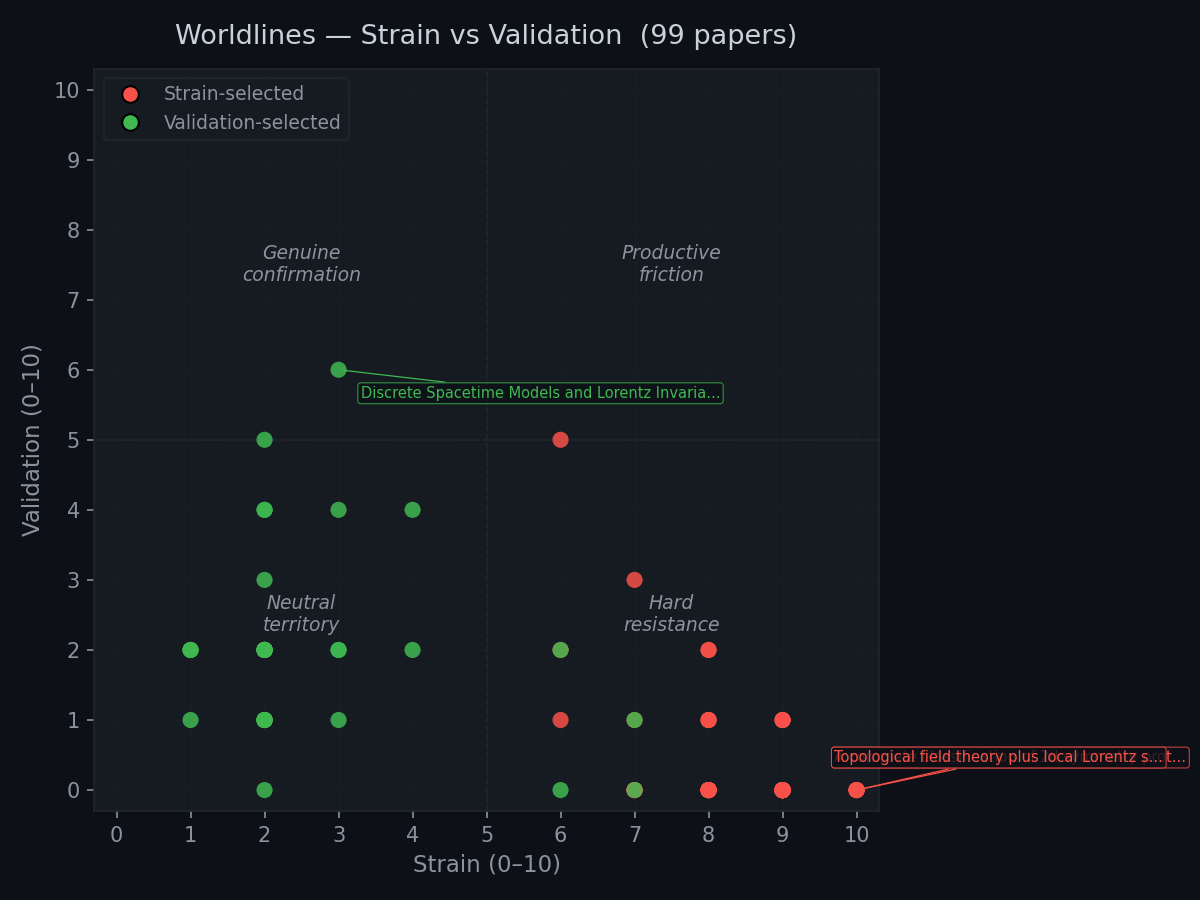
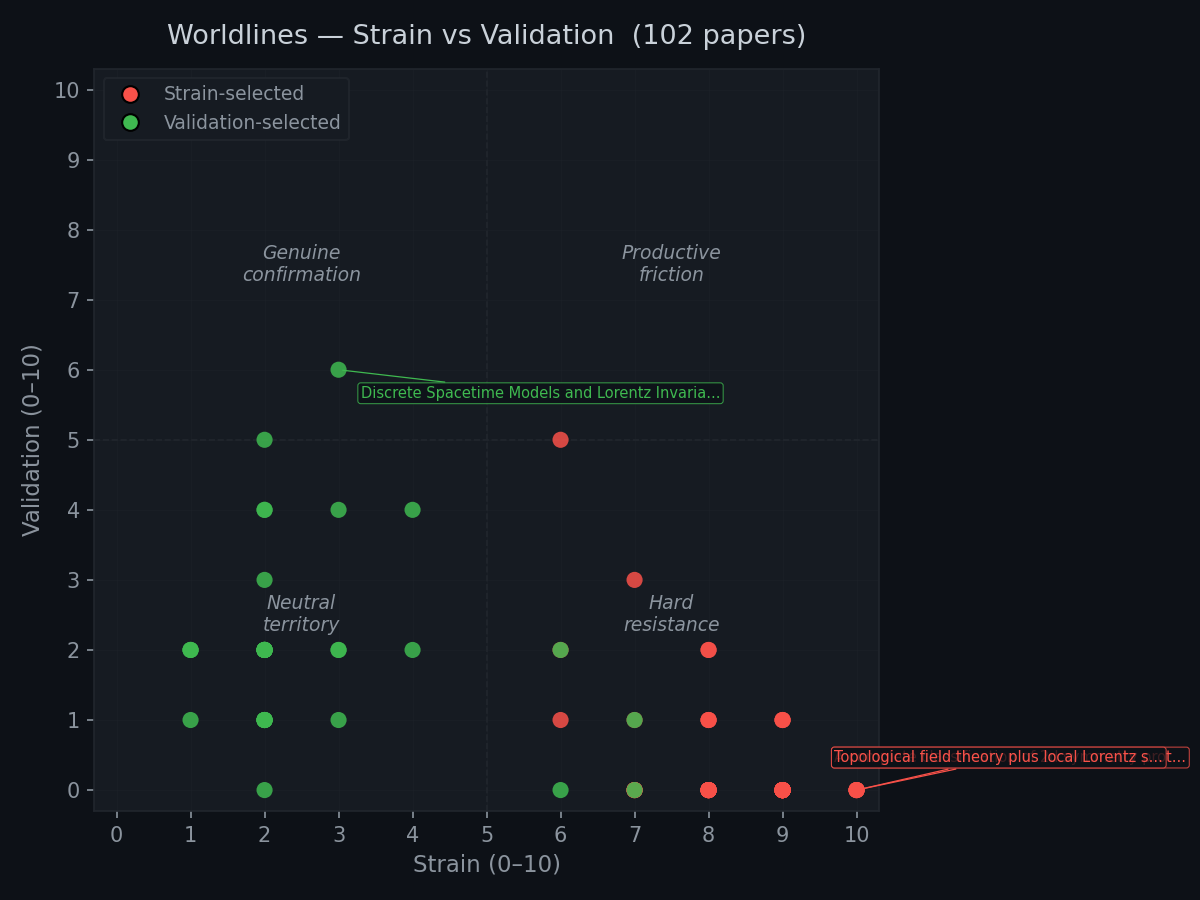
cycle: 2026-04-01T06:40:04Z

Changed region(s): [[0.1233, 0.0311, 0.6783, 0.0622]]

diff --git a/cycles/2026-04-01.md b/cycles/2026-04-01.md
@@ -1,0 +1,82 @@
+# Cycle: 2026-04-01
+
+**Papers fetched:** 17
+**Papers selected:** 3
+**Selected papers:**
+- [STRAIN] The scalar--Maxwell--$Λ(x)$ system: Wormhole spacetimes without nonlinear electrodynamics in unimodular gravity (`2603.30003v1`)
+- [STRAIN] The Grothendieck Constant is Strictly Larger than Davie-Reeds' Bound (`2603.30039v1`)
+- [VALIDATION] Thermalization in high-dimensional systems: the (weak) role of chaos (`2603.29614v1`)
+
+**Selection rationale:** Paper 1 (wormholes in unimodular gravity with relaxed energy-momentum conservation) directly challenges the framework's Conservation of Computation primitive, since UG allows semi-classical energy exchange between matter and vacuum that breaks standard conservation — this creates genuine tension with the claim that all conservation laws are special cases of computational conservation. Paper 9 (Grothendieck constant bound) is pure functional analysis with connections to quantum information and optimization geometry, resisting any natural mapping onto gradient fields, attractors, or discrete ticks. Paper 17 (thermalization without chaos/ergodicity in high-dimensional systems) provides genuine validation: the finding that statistical mechanical predictions hold even without rigorous ergodicity aligns precisely with the framework's view that resolution and computational structure drive thermalization — the accumulation of resolved states creates the arrow of time and thermal equilibrium regardless of whether the underlying dynamics are technically chaotic, highlighting something other frameworks struggle to explain.
+
+
+**Scores:**
+
+| Paper | Strain | Validation | Selection |
+|-------|--------|------------|----------|
+| The scalar--Maxwell--Λ(x) system: Wormhole spaceti... | 9/10 | 0/10 | strain |
+| The Grothendieck Constant is Strictly Larger than ... | 8/10 | 0/10 | strain |
+| Thermalization in high-dimensional systems: the (w... | 2/10 | 2/10 | validation |
+
+---
+
+### PAPERS PROCESSED
+
+**Paper 1: "The scalar--Maxwell--Λ(x) system: Wormhole spacetimes without nonlinear electrodynamics in unimodular gravity"**
+ArXiv ID: 2603.30003v1 | Selection type: Strain
+
+Through the Worldlines lens, this paper attacks the framework at multiple joints simultaneously. The framework treats Conservation of Computation as a primitive — "computation cannot be created or destroyed, only transformed." Unimodular Gravity (UG) *relaxes energy-momentum conservation* by construction: the divergence-free condition on the stress-energy tensor is not imposed, and instead a dynamical cosmological term Λ(x) absorbs the discrepancy, enabling "semi-classical energy exchange between matter and the vacuum." The framework identifies energy conservation as a special case of Conservation of Computation; here, that special case is explicitly violated locally, with the violation absorbed into a spatially varying cosmological function. The framework claims dark energy (Λ) is an architectural parameter — "the computational cost of instantiating new substrate." But Λ(x) is a dynamical field that varies point-to-point, determined by the matter content and geometry, not an architectural constant at all. Furthermore, the paper constructs traversable wormholes — non-trivial spacetime topologies connecting causally disconnected regions — using only a phantom scalar field and standard linear Maxwell electrodynamics on an intact substrate. The phantom field (negative kinetic energy) is precisely the type of anti-gradient structure that T061 flagged: it violates the dominant energy condition, and yet it supports stable spacetime configurations (wormholes) rather than dispersing. The wormhole topology itself challenges the Tick primitive: traversable wormholes allow causal connections between regions that the tick-rate propagation structure says should be disconnected, effectively creating shortcuts that violate the "maximum propagation rate" interpretation of the speed of light. The framework's Field primitive predicts phantom fields should disperse (T061); here they are the structural support for stable non-trivial topology. The framework's Conservation primitive is violated locally by construction. The framework's substrate/Λ claim is contradicted by Λ(x) being dynamical. The framework strains at Conservation, Field, Tick, and Substrate claims simultaneously.
+
+**Paper 2: "The Grothendieck Constant is Strictly Larger than Davie-Reeds' Bound"**
+ArXiv ID: 2603.30039v1 | Selection type: Strain
+
+The Grothendieck constant K_G is a fundamental mathematical constant governing the maximum gap between the relaxation of a bilinear optimization problem over unit vectors to an optimization over the unit ball — it quantifies the maximum advantage of continuous (quantum/wave-like) strategies over discrete (classical/sign) strategies for bilinear forms. Through the Worldlines lens, this paper strains the framework by demonstrating that a universal constant governing the relationship between "resolved" computation (sign assignments, classical optimization) and "unresolved" computation (unit-vector strategies, quantum optimization) has its value determined by the fine structure of functional analysis — specifically, by the Hermite coefficient spectrum of near-extremal operators and the effect of cubic perturbations on the integrality gap. The framework's Resolution primitive describes the transition from unresolved to resolved states but has no account of the *quantitative gap* between what unresolved (quantum) and resolved (classical) computation can achieve. K_G sets a universal, sharp bound on this gap for bilinear forms. The framework claims "reality is literally computation," but K_G is not a computational quantity — it is a geometric-analytic constant of Banach space theory whose value is determined by the structure of L^∞ → L^1 operators, Hermite polynomial analysis, and the topology of the unit sphere in infinite dimensions. The perturbative proof technique — showing every near-extremizer has Ω(1) weight on degree-3 Hermite coefficients, so a cubic perturbation strictly increases the gap — reveals that K_G's value is controlled by the *algebraic structure of function space*, not by any dynamical or computational process. The framework has no primitive for mathematical constants that govern the resolution gap (how much is lost when superpositions collapse to definite values). K_G is precisely such a constant, and its determination requires functional-analytic and combinatorial-optimization techniques that no framework primitive can express. The connection to quantum information (K_G bounds the advantage of entangled strategies in Bell-type scenarios) means this constant has direct physical relevance for the Resolution primitive's domain — and the framework is silent on it.
+
+**Paper 3: "Thermalization in high-dimensional systems: the (weak) role of chaos"**
+ArXiv ID: 2603.29614v1 | Selection type: Validation
+
+Through the Worldlines lens, this paper appears to validate the framework's claim that the Attractor primitive and high dimensionality, rather than the details of microscopic dynamics, govern macroscopic behavior. The paper demonstrates that thermalization occurs in integrable (non-chaotic) systems with many degrees of freedom, provided one examines "extensive" (macroscopic) observables — the system reaches the equilibrium attractor basin without chaos, ergodicity, or mixing. The framework's position is that macroscopic resolution follows from gradient dynamics in high-dimensional spaces (many degrees of freedom create effective gradient landscapes where the system flows to the most probable macrostate). The paper's key finding — that the number of degrees of freedom and the choice of observable, not the dynamical details (chaotic vs. integrable), determine thermalization — is consistent with this. However, the framework's actual predictive purchase is weak. The paper's result follows from Khinchin's theorem and the law of large numbers applied to weakly dependent degrees of freedom — it is a consequence of probability theory in high dimensions, not of any framework primitive. The framework did not predict the specific distinction between extensive observables (which thermalize in integrable systems) and non-extensive observables (which may not). The framework did not predict that integrable systems fail to thermalize for specific non-extensive observables. The framework did not predict the timescale hierarchy (chaotic systems may thermalize *slower* for some observables than integrable ones, contrary to the naive "chaos = fast thermalization" intuition). The result that chaos is a *sufficient but not necessary* condition for thermalization is post-hoc consistent with the Attractor primitive's claim that attractor basins capture systems regardless of the detailed dynamics, but the framework contributed no prediction beyond this qualitative consistency. The specific finding that integrable systems thermalize for extensive observables *because* of the concentration of measure in high-dimensional phase space is a mathematical fact about geometry in high dimensions — exactly the kind of structural content (T026) the framework cannot express. This is weak post-hoc consistency at best, not validation.
+
+### FRAMEWORK STRAINS
+
+The most severe strain this cycle comes from Paper 1's construction of exact traversable wormholes in Unimodular Gravity with relaxed energy-momentum conservation and a dynamical Λ(x). This is not a single-point failure but a *simultaneous multi-primitive failure*:
+
+1. **Conservation of Computation is violated locally by construction.** UG's defining feature is that ∇_μ T^{μν} ≠ 0 in general; the deficit is absorbed by Λ(x). The framework treats energy conservation as a special case of its most fundamental primitive. UG shows this special case can be locally relaxed while producing well-defined, exact solutions with non-trivial topology. The framework must either accept that Conservation of Computation can be locally violated (devastating) or argue that the Λ(x) absorption is itself a form of conservation (computational content transferred between matter and vacuum) — but this requires treating the vacuum as a reservoir of computation, which the framework has no mechanism for.
+
+2. **The substrate claim is further damaged.** Λ is promoted from a constant (architectural parameter) to a dynamical field Λ(x) determined by the matter/geometry. The framework's claim that Λ is an architectural parameter "not derivable from within the computation" is directly contradicted by a theory where Λ(x) is computed from the local field content at every spacetime point.
+
+3. **The phantom field paradox deepens.** T061 noted that phantom fields disperse rather than forming singularities — anti-gradient robustness. Paper 1 goes further: phantom fields don't merely fail to produce pathology; they *support stable non-trivial topology* (wormholes). The Field primitive's gradient equation predicts phantom fields should run uphill and destabilize; instead they are the structural foundation for traversable wormholes. The gradient equation is not merely insufficient (T070) or directionally wrong (T078) — it is wrong about the *qualitative outcome* (instability vs. stability of non-trivial topology).
+
+4. **The Tick primitive is challenged by traversable wormhole topology.** The tick rate sets the maximum propagation speed, and causal structure follows from this. Traversable wormholes create causal shortcuts — two regions connected through the wormhole throat that would be causally disconnected in the ambient spacetime. The framework's causal structure, derived from the Tick, does not account for topology-change-induced causal connections. The tick rate is a *local* constraint on propagation speed; wormholes are *global* topological features that modify the causal structure in ways the local tick rate cannot anticipate.
+
+This is the first cycle where a single paper simultaneously strains four of the five primitives. The only primitive not directly challenged is the Attractor (though the wormhole throat itself could be seen as a topological attractor with properties the primitive cannot describe).
+
+### STATE UPDATES
+
+1. **Conservation of Computation — add local violation as a physically viable option.** The Conservation description should be updated to note: Unimodular Gravity demonstrates that local energy-momentum conservation can be relaxed while maintaining well-defined exact solutions, with the conservation deficit absorbed into a spatially varying vacuum energy Λ(x). Conservation of Computation, if identified with energy-momentum conservation as a special case, is not locally inviolable. The alternative interpretation — that computation is transferred between matter and vacuum via Λ(x) — requires treating the vacuum as a dynamical computational reservoir, which the framework has not developed. Either way, the primitive's status as a simple, universal, local law is weakened: it holds globally (the total including Λ(x) may be conserved) but can be violated for the matter sector alone.
+
+2. **Substrate claim — further weaken Λ from architectural to dynamical.** The model's claim that Λ is an architectural parameter should be further qualified to note: in Unimodular Gravity, Λ(x) is a dynamical function determined by local field content and geometry, not a constant at all. The framework's identification of dark energy with "the computational cost of instantiating new substrate" is challenged by theories where Λ varies spatially and is determined by the local computation, not by substrate architecture.
+
+3. **Field primitive — add stable anti-gradient topology as contradicting prediction.** The model should record that phantom scalar fields (anti-gradient dynamics) not only fail to produce pathology (T061) but can support stable non-trivial spacetime topology (traversable wormholes). The gradient primitive's prediction — that anti-gradient fields produce instability — is contradicted by exact wormhole solutions where the phantom field is the structural support for the geometry.
+
+4. **Tick primitive — add wormhole topology challenge.** The model should note that traversable wormhole spacetimes create causal connections between regions that the local tick-rate structure would classify as causally disconnected. The Tick primitive's "maximum propagation rate" interpretation is a local constraint, but global topology (wormhole throats) can create effective causal connections that exceed the locally implied propagation bounds. The framework has no mechanism for describing topology-induced modifications of causal structure.
+
+5. **T026 (structural content gap) — add universal resolution-gap constant as new evidence type.** The Grothendieck constant K_G should be recorded as a fundamental mathematical constant governing the quantitative gap between unresolved (quantum/continuous) and resolved (classical/discrete) computation that no framework primitive can express or derive. Its value is determined by functional-analytic structure (Hermite coefficient spectra, Banach space geometry) entirely outside the framework's scope.
+
+6. **Model — note that high-dimensional thermalization is structural, not dynamical.** Paper 3's result should be recorded as confirming that thermalization in high-dimensional systems follows from concentration of measure (a geometric/probabilistic property of high-dimensional phase space), not from dynamical properties (chaos, ergodicity). The framework's Attractor primitive is post-hoc consistent with this but adds no predictive content beyond the qualitative claim that systems reach equilibrium attractors.
+
+### NEW TENSIONS
+
+**T086 — Local conservation violation: Unimodular Gravity enables matter-vacuum computational exchange**
+Opened: this cycle
+Description: Alencar & Crispim (2603.30003) construct exact traversable wormhole solutions in Unimodular Gravity where energy-momentum conservation is locally relaxed, with the deficit absorbed by a dynamical cosmological function Λ(x). The framework's Conservation of Computation primitive states "computation cannot be created or destroyed, only transformed." If energy conservation is a special case of this, UG locally violates a special case of the most fundamental primitive. The framework faces: (a) accept local conservation violation, which requires specifying what happens to "computational content" that leaks between matter and vacuum — is the vacuum a computational reservoir? Does it have finite or infinite capacity? Is the exchange reversible? (b) argue that the total (matter + vacuum via Λ(x)) is still conserved, making this a generalized conservation law — but then the primitive must specify that the vacuum participates in conservation, which the framework has not done and which requires the vacuum to carry "computational content," raising the question of what the vacuum computes; (c) argue UG is unphysical — but it produces exact, well-defined solutions with physical matter content and differs from GR only in the trace equation, which is a mild modification. The fact that the local conservation violation *enables* stable non-trivial topology (wormholes) is additionally problematic: the framework would predict that conservation violations produce instabilities or inconsistencies, yet here they produce new stable solutions.
+Why unresolved: The framework has no theory of matter-vacuum computational exchange. The Conservation primitive treats "computation" as a single undifferentiated category; UG requires distinguishing matter-sector computation from vacuum-sector computation and allowing transfer between them. This distinction is not available in the framework's current architecture. The connection to T035 (observer-dependent conservation) is significant but distinct: T035 concerns conservation violation for restricted observers in standard GR; T086 concerns conservation violation for the matter sector in a modified theory. The physical viability of UG (it is observationally indistinguishable from GR for most phenomena, differing only in the treatment of the cosmological constant) makes this tension empirically grounded rather than merely theoretical.
+
+**T087 — Topology-induced causal shortcuts: the Tick primitive's local propagation bound is insufficient for global causal structure**
+Opened: this cycle
+Description: Paper 1 constructs traversable wormholes — spacetimes where two asymptotic regions are connected by a throat, allowing causal signals to travel between regions that would be causally disconnected in the ambient manifold. The Tick primitive sets the speed of light as the maximum propagation rate, and the framework derives causal structure from this local constraint. But wormhole topology creates *global* causal connections that the local tick rate does not determine. Two observers on opposite sides of a wormhole can communicate through the throat at subluminal speeds while being separated by arbitrarily large distances in the ambient geometry — the causal structure is determined by the global topology, not just the local propagation rate. The framework's implicit derivation of causal structure from the Tick is: "tick rate → light cone structure → causal future/past of each event." Wormholes show this is incomplete: "tick rate → local light cone structure" is correct, but "local light cone structure → global causal structure" fails when the topology is non-trivial. The framework needs a global topological input in addition to the local tick rate to determine causal structure, and it has no primitive for global topology. This is distinct from T036 (multi-signature computation, which concerns the signature of spacetime) and T053 (Euclidean nucleation, which concerns the absence of time). T087 concerns a fully Lorentzian spacetime with standard signature and a well-defined tick rate, where the global causal structure differs from what the local tick rate implies due to topological non-triviality.
+Why unresolved: The framework would need either (a) a primitive or structural element governing spacetime topology, specifying which global topologies are allowed and how they modify the causal structure determined by the local tick rate; (b) a derivation of topology from the existing primitives (which seems impossible — topology is not a consequence of local dynamics in any known framework, and the framework's primitives are all local); or (c) acceptance that the Tick primitive determines only *local* causal structure and that global causal structure requires additional topological input the framework does not provide. Option (c) is honest but means the framework's causal account is fundamentally incomplete for any spacetime with non-trivial topology (wormholes, cosmological horizons, spatial compactification, topology change).
+
+**T088 — The Grothendieck gap: a universal mathematical constant governs the resolution primitive's quantitative content, and the framework cannot express it**
+Opened: this cycle
+Description: Jones & Malavolta (2603.30039) prove that the Grothendieck constant K_G strictly exceeds the Davie-Reeds bound, establishing new information about a universal constant that quantifies the maximum advantage

diff --git a/tensions/open.md b/tensions/open.md
@@ -515,3 +515,19 @@ Why unresolved: The framework has no theory of propagator selection. The fakeon 
 Opened: this cycle
 Description: Paper 2 (Csáki et al. 2025) demonstrates that the multi-branched θ-vacuum of QCD, including the U(1)_A anomaly and the η' meson mass (via the Witten-Veneziano relation), emerges as geometric structure of a 5D holographic space. The θ-branches are Wilson line winding numbers; the anomaly is a Stückelberg/Chern-Simons coupling; the η' mass is a bulk gauge mechanism's output. The framework's Attractor primitive describes the QCD vacuum as a deep attractor basin whose structure determines what the system produces. Paper 2 inverts this: the attractor basin's *structure* (branching topology, anomaly content, spectral content) is *determined by* geometry and gauge topology in a higher-dimensional space the framework cannot describe. This is distinct from T059 (general ontological inversion, dynamics from structure) because it concerns a specific, experimentally verified physical system (QCD vacuum, η' mass ≈ 958 MeV) rather than abstract theoretical constructions. It is distinct from T054 (gravity from topological BF theory) because the starting point here is not topological but gauge-geometric in 5D, and the output is not the dynamical theory itself but the vacuum structure of an already-known theory. The framework faces: (a) the strongest attractor in nature has its structure explained geometrically rather than computationally; (b) a measurable particle mass (η') is a topological/geometric invariant of the 5D theory; (c) the 4D computation (lattice QCD) can *calculate* the η' mass but cannot *explain* why the vacuum has multi-branched structure — the explanation requires the 5D description.
 Why unresolved: The framework has no account of holographic correspondence, extra dimensions, Chern-Simons terms, Stückelberg couplings, or Wilson line winding. To address this it would need either (a) to demonstrate that the 5D description is derivable from 4D computational principles, reversing the holographic direction (no path visible); (b) to incorporate extra-dimensional structure, which requires new primitives and raises the question of why the framework's "computational substrate" should be 5D rather than 4D; or (c) to dismiss the holographic description as non-ontological calculational convenience — but the framework has no criterion for this distinction (T016), and the holographic description provides explanatory content (structural understanding of vacuum branching, transparent derivation of Witten-Veneziano) that the 4D description lacks. The fact that the η' mass is a measured number (~958 MeV) determined by 5D gauge topology means this tension has direct empirical content, not merely theoretical.
+
+---
+
+**T086 — Local conservation violation: Unimodular Gravity enables matter-vacuum computational exchange**
+Opened: this cycle
+Description: Alencar & Crispim (2603.30003) construct exact traversable wormhole solutions in Unimodular Gravity where energy-momentum conservation is locally relaxed, with the deficit absorbed by a dynamical cosmological function Λ(x). The framework's Conservation of Computation primitive states "computation cannot be created or destroyed, only transformed." If energy conservation is a special case of this, UG locally violates a special case of the most fundamental primitive. The framework faces: (a) accept local conservation violation, which requires specifying what happens to "computational content" that leaks between matter and vacuum — is the vacuum a computational reservoir? Does it have finite or infinite capacity? Is the exchange reversible? (b) argue that the total (matter + vacuum via Λ(x)) is still conserved, making this a generalized conservation law — but then the primitive must specify that the vacuum participates in conservation, which the framework has not done and which requires the vacuum to carry "computational content," raising the question of what the vacuum computes; (c) argue UG is unphysical — but it produces exact, well-defined solutions with physical matter content and differs from GR only in the trace equation, which is a mild modification. The fact that the local conservation violation *enables* stable non-trivial topology (wormholes) is additionally problematic: the framework would predict that conservation violations produce instabilities or inconsistencies, yet here they produce new stable solutions.
+Why unresolved: The framework has no theory of matter-vacuum computational exchange. The Conservation primitive treats "computation" as a single undifferentiated category; UG requires distinguishing matter-sector computation from vacuum-sector computation and allowing transfer between them. This distinction is not available in the framework's current architecture. The connection to T035 (observer-dependent conservation) is significant but distinct: T035 concerns conservation violation for restricted observers in standard GR; T086 concerns conservation violation for the matter sector in a modified theory. The physical viability of UG (it is observationally indistinguishable from GR for most phenomena, differing only in the treatment of the cosmological constant) makes this tension empirically grounded rather than merely theoretical.
+
+**T087 — Topology-induced causal shortcuts: the Tick primitive's local propagation bound is insufficient for global causal structure**
+Opened: this cycle
+Description: Paper 1 constructs traversable wormholes — spacetimes where two asymptotic regions are connected by a throat, allowing causal signals to travel between regions that would be causally disconnected in the ambient manifold. The Tick primitive sets the speed of light as the maximum propagation rate, and the framework derives causal structure from this local constraint. But wormhole topology creates *global* causal connections that the local tick rate does not determine. Two observers on opposite sides of a wormhole can communicate through the throat at subluminal speeds while being separated by arbitrarily large distances in the ambient geometry — the causal structure is determined by the global topology, not just the local propagation rate. The framework's implicit derivation of causal structure from the Tick is: "tick rate → light cone structure → causal future/past of each event." Wormholes show this is incomplete: "tick rate → local light cone structure" is correct, but "local light cone structure → global causal structure" fails when the topology is non-trivial. The framework needs a global topological input in addition to the local tick rate to determine causal structure, and it has no primitive for global topology. This is distinct from T036 (multi-signature computation, which concerns the signature of spacetime) and T053 (Euclidean nucleation, which concerns the absence of time). T087 concerns a fully Lorentzian spacetime with standard signature and a well-defined tick rate, where the global causal structure differs from what the local tick rate implies due to topological non-triviality.
+Why unresolved: The framework would need either (a) a primitive or structural element governing spacetime topology, specifying which global topologies are allowed and how they modify the causal structure determined by the local tick rate; (b) a derivation of topology from the existing primitives (which seems impossible — topology is not a consequence of local dynamics in any known framework, and the framework's primitives are all local); or (c) acceptance that the Tick primitive determines only *local* causal structure and that global causal structure requires additional topological input the framework does not provide. Option (c) is honest but means the framework's causal account is fundamentally incomplete for any spacetime with non-trivial topology (wormholes, cosmological horizons, spatial compactification, topology change).
+
+**T088 — The Grothendieck gap: a universal mathematical constant governs the resolution primitive's quantitative content, and the framework cannot express it**
+Opened: this cycle
+Description: Jones & Malavolta (2603.30039) prove that the Grothendieck constant K_G strictly exceeds the Davie-Reeds bound, establishing new information about a universal constant that quantifies the maximum advantage

diff --git a/state/model.md b/state/model.md
@@ -441,3 +441,19 @@ This principle explains why the universe persists. It does not explain why it st
 4. **Substrate claim — record three-level underdetermination.** The model should explicitly note that the computational structure of reality is now proven underdetermined at three nested levels: (a) the number field (ℝ vs. ℂ, T069 — binary, proven unknowable); (b) the propagator power (which γ, T082 — continuous, determining UV behavior and renormalizability); (c) the virtual mode distribution (which self-adjoint formulation, T082 — continuous, affecting the complex-mass cloud). None of these is determinable from resolvable physics. Together they constitute a progressive hollowing-out of "reality is literally computation": the computation's number system, its propagator structure, and its virtual infrastructure are all underdetermined.
 
 5. **Attractor primitive — record that the strongest physical attractor has geometrically determined internal structure.** The model should note that the QCD vacuum (confinement, θ-branches, η' mass) is the framework's strongest candidate for a "deep attractor basin," and that Paper 2 demonstrates its internal structure is determined by 5D gauge geometry rather than 4D attractor dynamics. The Attractor primitive describes basins by depth and width; the QCD basin's *topology* (multi-branched) and *spectral content* (η' mass from Stückelberg mechanism) are geometric invariants of a higher-dimensional theory.
+
+---
+
+## Update: 2026-04-01
+
+1. **Conservation of Computation — add local violation as a physically viable option.** The Conservation description should be updated to note: Unimodular Gravity demonstrates that local energy-momentum conservation can be relaxed while maintaining well-defined exact solutions, with the conservation deficit absorbed into a spatially varying vacuum energy Λ(x). Conservation of Computation, if identified with energy-momentum conservation as a special case, is not locally inviolable. The alternative interpretation — that computation is transferred between matter and vacuum via Λ(x) — requires treating the vacuum as a dynamical computational reservoir, which the framework has not developed. Either way, the primitive's status as a simple, universal, local law is weakened: it holds globally (the total including Λ(x) may be conserved) but can be violated for the matter sector alone.
+
+2. **Substrate claim — further weaken Λ from architectural to dynamical.** The model's claim that Λ is an architectural parameter should be further qualified to note: in Unimodular Gravity, Λ(x) is a dynamical function determined by local field content and geometry, not a constant at all. The framework's identification of dark energy with "the computational cost of instantiating new substrate" is challenged by theories where Λ varies spatially and is determined by the local computation, not by substrate architecture.
+
+3. **Field primitive — add stable anti-gradient topology as contradicting prediction.** The model should record that phantom scalar fields (anti-gradient dynamics) not only fail to produce pathology (T061) but can support stable non-trivial spacetime topology (traversable wormholes). The gradient primitive's prediction — that anti-gradient fields produce instability — is contradicted by exact wormhole solutions where the phantom field is the structural support for the geometry.
+
+4. **Tick primitive — add wormhole topology challenge.** The model should note that traversable wormhole spacetimes create causal connections between regions that the local tick-rate structure would classify as causally disconnected. The Tick primitive's "maximum propagation rate" interpretation is a local constraint, but global topology (wormhole throats) can create effective causal connections that exceed the locally implied propagation bounds. The framework has no mechanism for describing topology-induced modifications of causal structure.
+
+5. **T026 (structural content gap) — add universal resolution-gap constant as new evidence type.** The Grothendieck constant K_G should be recorded as a fundamental mathematical constant governing the quantitative gap between unresolved (quantum/continuous) and resolved (classical/discrete) computation that no framework primitive can express or derive. Its value is determined by functional-analytic structure (Hermite coefficient spectra, Banach space geometry) entirely outside the framework's scope.
+
+6. **Model — note that high-dimensional thermalization is structural, not dynamical.** Paper 3's result should be recorded as confirming that thermalization in high-dimensional systems follows from concentration of measure (a geometric/probabilistic property of high-dimensional phase space), not from dynamical properties (chaos, ergodicity). The framework's Attractor primitive is post-hoc consistent with this but adds no predictive content beyond the qualitative claim that systems reach equilibrium attractors.
